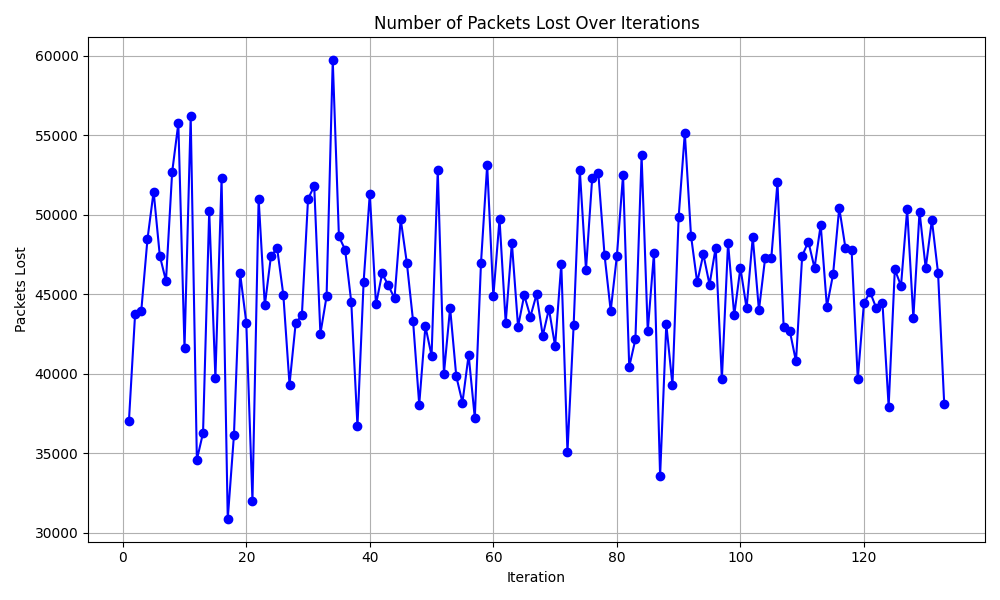
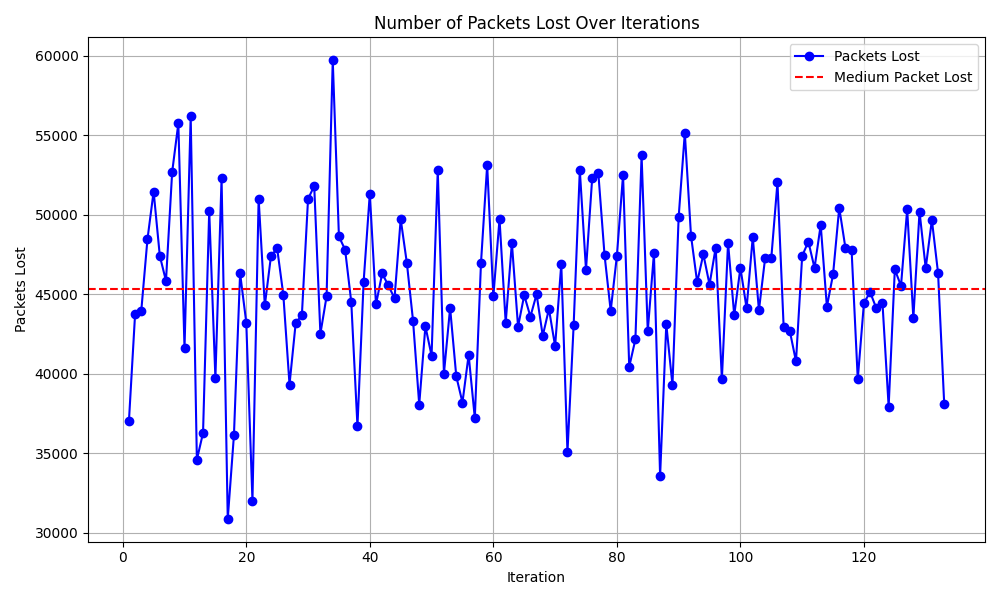
feat: added a medium line in the loss plot

Changed region(s): [[0.806, 0.06, 0.992, 0.15]]

diff --git a/data/visualize_loss.py b/data/visualize_loss.py
@@ -14,15 +14,20 @@ with open(file_path, 'r') as file:
 # Generate x-axis values (iteration numbers)
 iterations = list(range(1, len(packet_lost) + 1))
 
+# Calculate the medium value of packet loss
+medium_packet_lost = sum(packet_lost) / len(packet_lost)
+
 # Plot the data
 plt.figure(figsize=(10, 6))
-plt.plot(iterations, packet_lost, color='blue', marker='o', linestyle='-')
+plt.plot(iterations, packet_lost, color='blue', marker='o', linestyle='-', label='Packets Lost')
+plt.axhline(y=medium_packet_lost, color='red', linestyle='--', label='Medium Packet Lost')  # Add medium line
 plt.title('Number of Packets Lost Over Iterations')
 plt.xlabel('Iteration')
 plt.ylabel('Packets Lost')
 plt.grid(True)
 plt.tight_layout()
+plt.legend()  # Show legend
 
 # Save the image to a file
-plt.savefig("./data/loss_plot.png") 
+plt.savefig("./data/loss_plot.png")
 plt.close()
